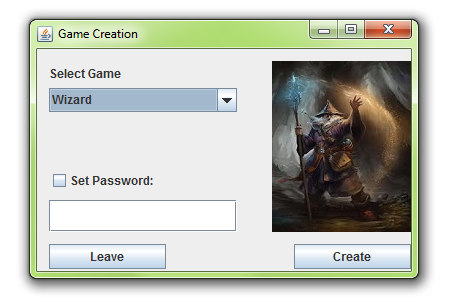
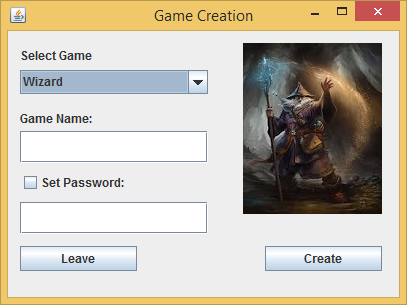
erste gui bilder

diff --git a/src/windows/ClientWindow.java b/src/windows/ClientWindow.java
@@ -2,6 +2,8 @@ package windows;
 
 import java.awt.EventQueue;
 import java.awt.Graphics;
+import java.awt.Image;
+import java.awt.Toolkit;
 import java.awt.image.BufferedImage;
 import java.io.File;
 import java.io.IOException;
@@ -10,10 +12,15 @@ import javax.imageio.ImageIO;
 import javax.swing.JFrame;
 import javax.swing.JPanel;
 import javax.swing.border.EmptyBorder;
+import javax.swing.ImageIcon;
 import javax.swing.JScrollPane;
 import javax.swing.JTextArea;
 import javax.swing.JTextField;
 import javax.swing.JButton;
+import javax.swing.JLabel;
+import javax.swing.SwingConstants;
+
+import java.awt.Color;
 
 public class ClientWindow extends JFrame {
 
@@ -66,9 +73,25 @@ public class ClientWindow extends JFrame {
 		contentPane.add(textField);
 		textField.setColumns(10);
 		
-		JPanel panel = new ImagePanel();
-		panel.setBounds(10, 11, 764, 370);
+		JPanel panel0 = new ImagePanel();
+		panel0.setBounds(10, 11, 764, 370);
+		panel0.setOpaque(false);
+		contentPane.add(panel0);
+	/*	Image image = Toolkit.getDefaultToolkit().createImage("./src/game.png");
+		JLabel bild = new JLabel(new ImageIcon(image));
+		bild.setBounds(10, 11, 764, 370);
+		bild.setOpaque(false);
+		contentPane.add(bild); */
+		
+		JPanel panel = new JPanel();
+		panel.setBackground(Color.WHITE);
+		panel.setBounds(703, 317, 71, 63);
+		panel.setOpaque(true);
 		contentPane.add(panel);
+		
+		JLabel lblNewLabel = new JLabel("New label");
+		lblNewLabel.setForeground(Color.RED);
+		panel.add(lblNewLabel);
 	}
 	
 	class ImagePanel extends JPanel{

diff --git a/src/windows/CreateGameWindow.java b/src/windows/CreateGameWindow.java
@@ -73,6 +73,7 @@ public class CreateGameWindow extends JFrame {
 			        g.drawImage(image, 0, 0, null);          
 			    }
 		};
+		panel.setToolTipText("Wizard is a trick-taking card game for 3 to 6 players.");
 
 		panel.setBounds(235, 12, 139, 171);
 		getContentPane().add(panel);
@@ -81,7 +82,7 @@ public class CreateGameWindow extends JFrame {
 		btnNewButton_1.setBounds(257, 215, 117, 25);
 		getContentPane().add(btnNewButton_1);
 		
-		JLabel lblGameName = new JLabel("Game Name");
+		JLabel lblGameName = new JLabel("Game Name:");
 		lblGameName.setBounds(12, 75, 95, 24);
 		getContentPane().add(lblGameName);
 		

diff --git a/Pflichtenheft.tex b/Pflichtenheft.tex
@@ -40,7 +40,7 @@
 {\large \today}
 
 \vspace{2cm}
-\includegraphics{Bild}
+\includegraphics{kartenspiel}
 
 \vspace{2cm}
 
